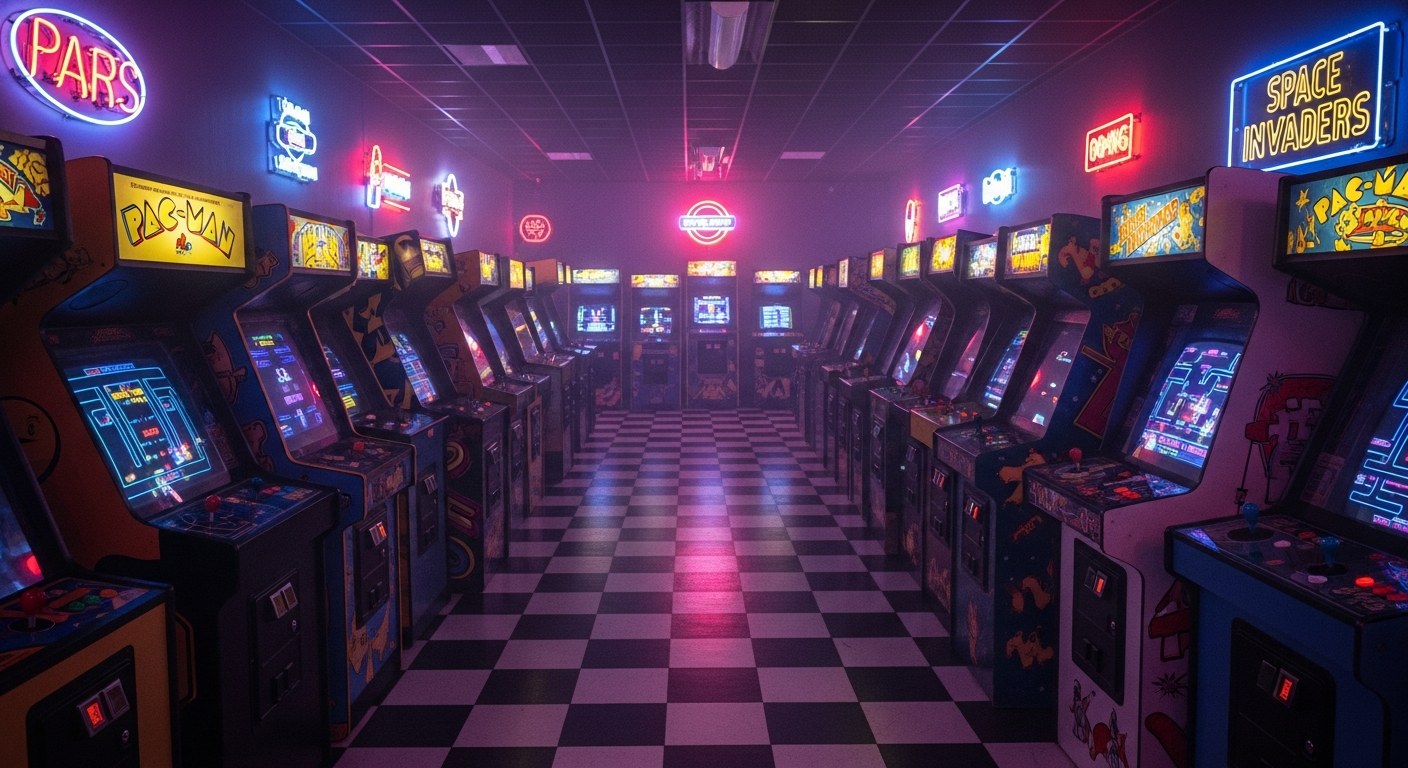
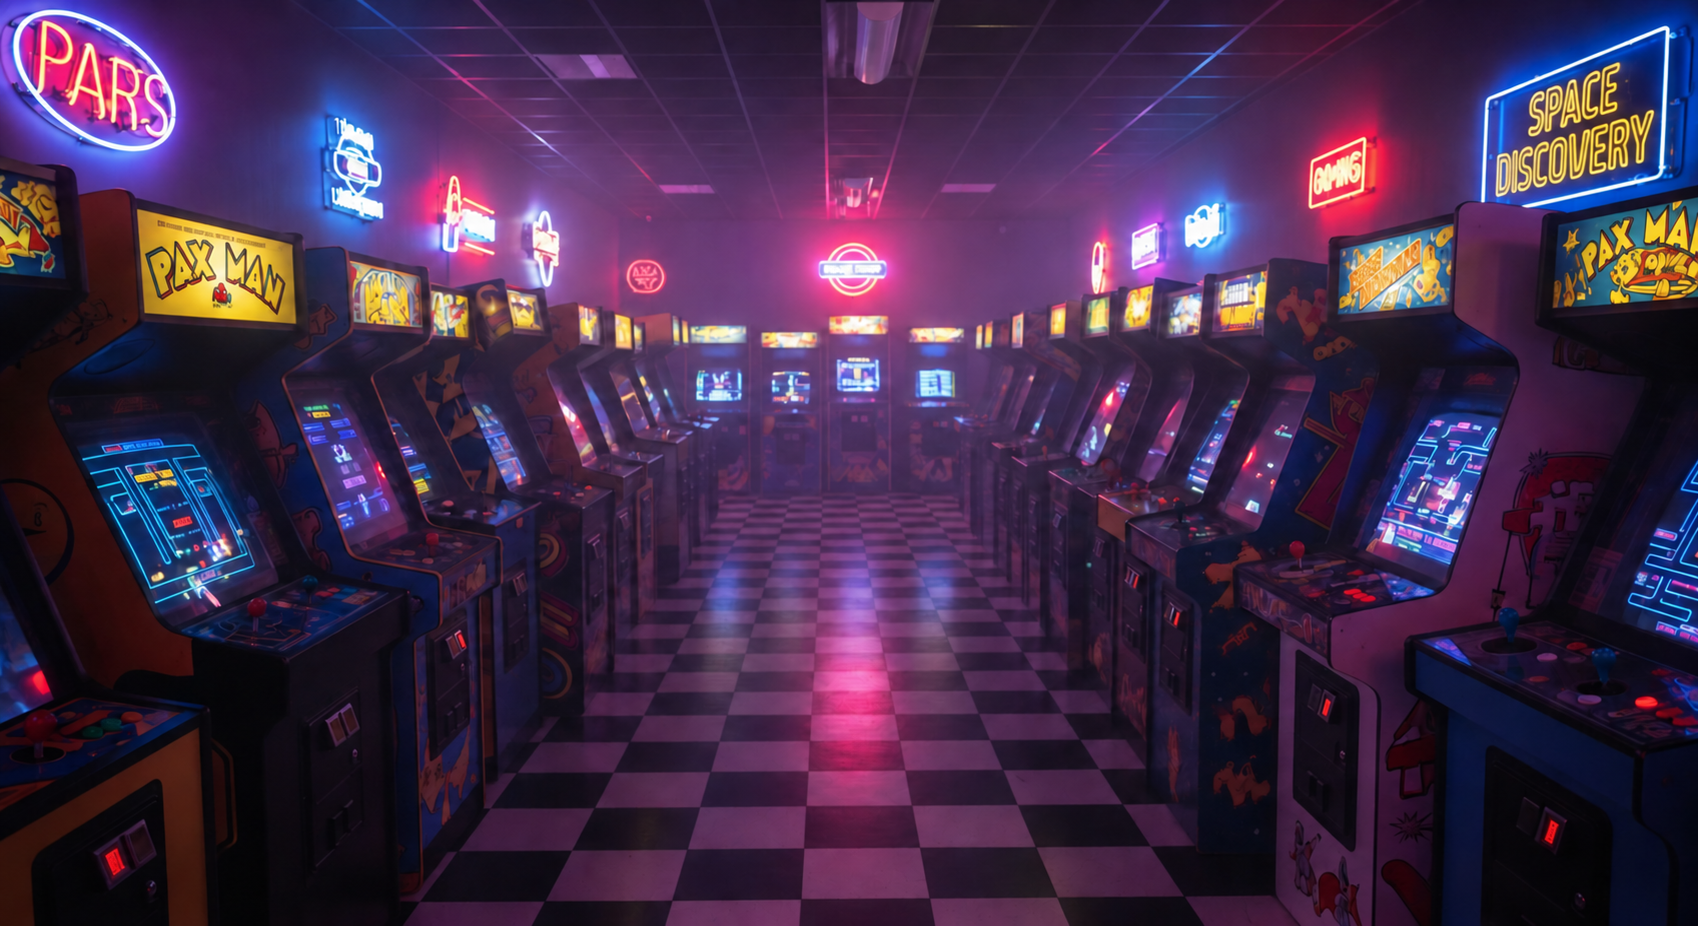
[skip ci] Replace Arcade Master background

diff --git a/client/src/lib/skins.ts b/client/src/lib/skins.ts
@@ -16,7 +16,7 @@ export function getSkinImageUrl(skinId: string): string {
 const AVATAR_VERSION = 8;
 
 // Bump this version when background images are updated to bust the immutable cache
-const BACKGROUND_VERSION = 18;
+const BACKGROUND_VERSION = 19;
 
 export function getSkinBackgroundUrl(skinId: string): string {
   const path = `/skins/backgrounds/${skinId}.png?v=${BACKGROUND_VERSION}`;
